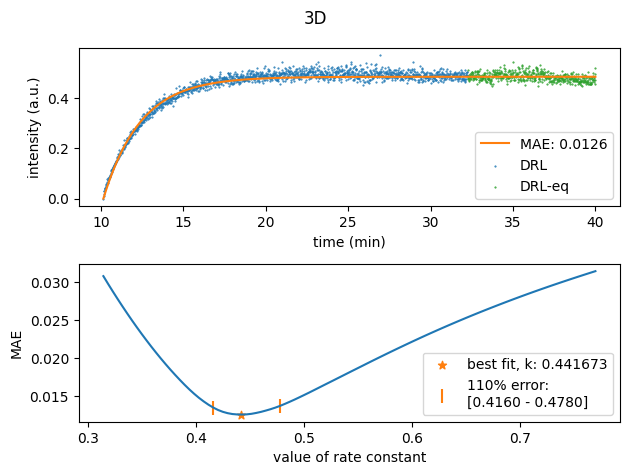
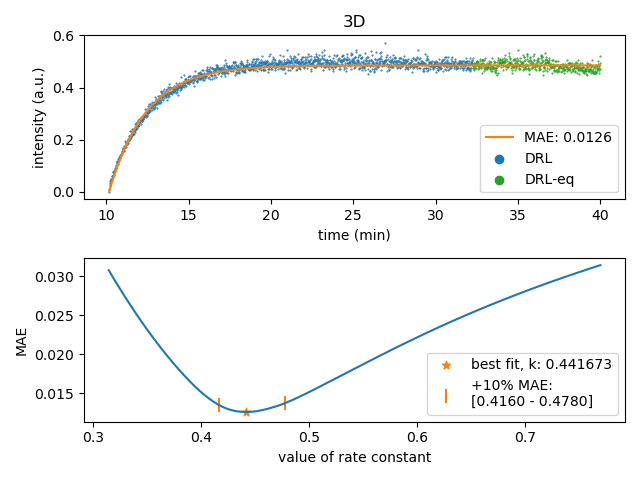
minor fixes

Changed region(s): [[0.0, 0.0, 0.9968, 0.9726]]

diff --git a/docs/source/extensive_example.rst b/docs/source/extensive_example.rst
@@ -15,7 +15,7 @@ There are 3 isomers per intermediate in this reaction:
     :align: center
 
 Below I will describe how we can analyze their data using the delayed_reactant_labeling module. However, to make the
-analysis easier we have changed the naming convention. The major pathway ``3C -> 4B -> 5B -> R6``and minor pathway
+analysis easier we have changed the naming convention. The major pathway ``3C -> 4B -> 5B -> R6`` and minor pathway
 ``3B -> 4C -> 5C -> S6`` is quite confusing as the label of the isomer changes for the same pathway. Therefore all intermediates
 in the major pathway have been labeled with "D", and in the minor pathway with "E". All intermediates in the side pathway
 "A" have been labeled "F". The data adjusted for this naming convention, and with time array extending for the
@@ -179,8 +179,11 @@ straightforwardly extract :math:`k_2` from :eq:`3t`. In code this is done as fol
         ax = axs[0]
         ax.set_title(chemical)
         ax.plot(time, f(result.x[0]), label=f'MAE: {result.fun:.4f}', color='tab:orange')
-        ax.scatter(time[:-EQUILIBRIUM_LAST_N], y_true_curve[:-EQUILIBRIUM_LAST_N],s=1, marker='.', color='tab:blue', label='DRL')
-        ax.scatter(time[-EQUILIBRIUM_LAST_N:], y_true_curve[-EQUILIBRIUM_LAST_N:],s=1, marker='.', color='tab:green', label='DRL-eq')
+        ax.scatter(time[:-EQUILIBRIUM_LAST_N], y_true_curve[:-EQUILIBRIUM_LAST_N],s=1, marker='.', color='tab:blue')
+        ax.scatter(time[-EQUILIBRIUM_LAST_N:], y_true_curve[-EQUILIBRIUM_LAST_N:],s=1, marker='.', color='tab:green')
+        ax.scatter(np.nan, np.nan, marker='o', color='tab:blue', label='DRL')  # clearer legend
+        ax.scatter(np.nan, np.nan, marker='o', color='tab:green', label='DRL-eq')
+
         ax.set_xlabel('time (min)')
         ax.set_ylabel('intensity (a.u.)')
         ax.legend()
@@ -194,7 +197,7 @@ straightforwardly extract :math:`k_2` from :eq:`3t`. In code this is done as fol
         ax.scatter(result.x[0], result.fun, label=f'best fit, k: {result.x[0]:.6f}', marker='*', color='tab:orange')
         bounds_10pc = np.where(errors<1.1*result.fun)[0][[0, -1]]
         ax.scatter(rates[bounds_10pc], errors[bounds_10pc], marker='|', color='tab:orange', s=100,
-                   label=f'110% error:\n[{rates[bounds_10pc[0]]:.4f} - {rates[bounds_10pc[1]]:.4f}]')
+                   label=f'+10% MAE:\n[{rates[bounds_10pc[0]]:.4f} - {rates[bounds_10pc[1]]:.4f}]')
         ax.set_xlabel('value of rate constant')
         ax.set_ylabel('MAE')
         ax.legend()
